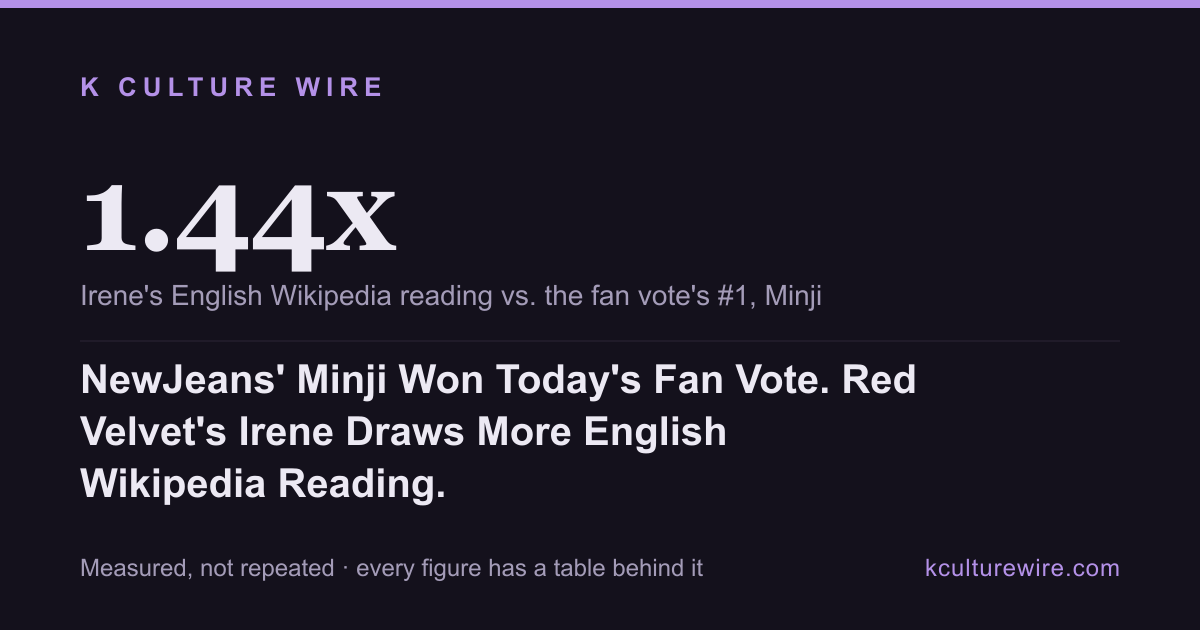
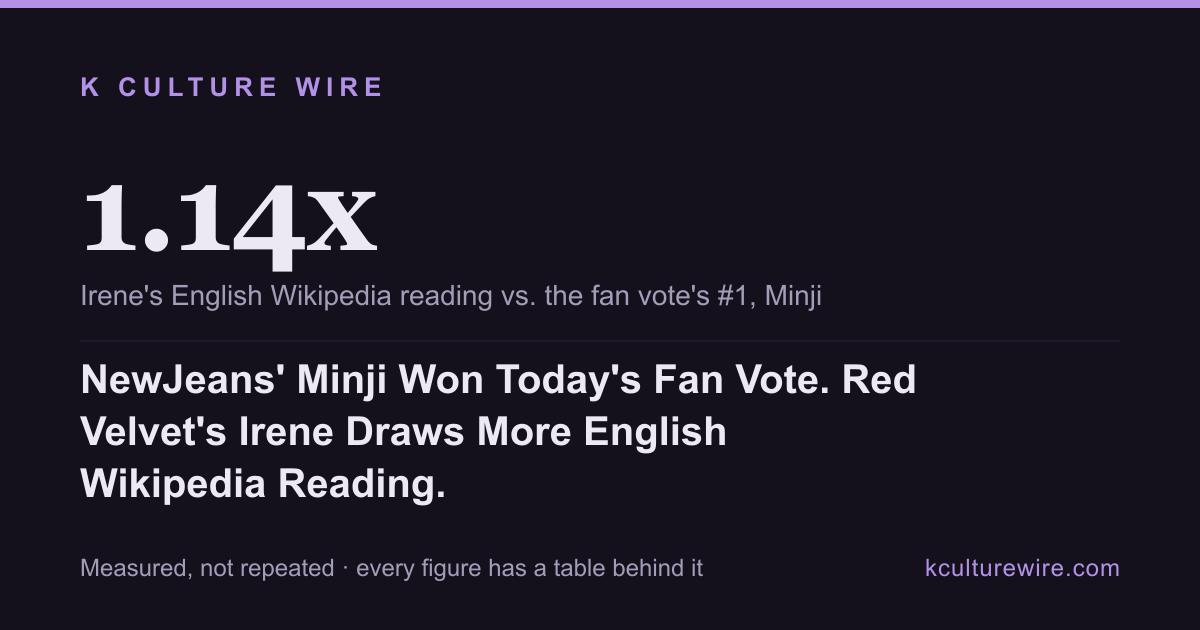
KCW: 스타폴 대조 기사 수치 정정 — 위키백과 패널을 투표 전날까지로 다시 받아 1.44x → 1.14x
첫 커밋에서 쓴 위키백과 30일 창(24 Jul-22 Aug)이 투표 스냅숏(9/16)보다 25일 낡았다.
같은 턴에 백그라운드로 돌리던 collect-kpop-pageviews.mjs 갱신(17 Aug-15 Sep, 투표
전날까지)이 끝나 다시 재보니 아이린/민지 배수가 1.44x가 아니라 1.14x였다. 남성
아이돌 부문 그룹 비교도 오류를 발견해 고쳤다 — 처음엔 "CORTIS 그룹이 BTS 포함
전부보다 높다"고 썼는데, 실제로는 BTS 개인(Jin)만 재고 BTS 그룹은 안 쟀다.
다시 재니 BTS 그룹(218,592)이 CORTIS 그룹(58,269)의 약 4배다 — 반대 방향이었다.
확인하고 단정한다는 원칙대로, 배포 전에 직접 재차 검증해 잡았다.

Claude-Session: https://claude.ai/code/session_01SJYYZLU311Tb3epw2BaWHY

Changed region(s): [[0.1233, 0.2714, 0.3392, 0.4524]]

diff --git a/content/kculturewire/newjeans-topped-the-fan-vote-red-velvets-irene-reads-more.md b/content/kculturewire/newjeans-topped-the-fan-vote-red-velvets-irene-reads-more.md
@@ -1,6 +1,6 @@
 ---
 title: "NewJeans' Minji Won Today's Fan Vote. Red Velvet's Irene Draws More English Wikipedia Reading."
-dek: "STARPOLL's 16 September vote put NewJeans' Minji first among female idols, Irene third. Irene's English Wikipedia reading ran 1.44x Minji's over our own 30-day window — the vote and the reading data don't agree on who's first."
+dek: "STARPOLL's 16 September vote put NewJeans' Minji first among female idols, Irene third. Irene's English Wikipedia reading ran 1.14x Minji's over the 30 days ending the day before the vote."
 category: stars
 pubDate: 2026-09-16
 dataAsOf: 2026-09-16T00:00:00+09:00
@@ -13,20 +13,20 @@ sources:
     api: "Star Ranking leaderboard (fan-vote app STARPOLL, official AAA 2026 popularity-vote partner), Female Idol and Male Idol categories, accessed 2026-09-16"
     url: "https://www.starnewskorea.com/star-ranking"
   - org: "Wikimedia Foundation — Pageviews API"
-    api: "Daily English Wikipedia pageviews, all-access, user agents only (bots excluded), for named idols and groups, 24 July-22 August 2026 (freshest complete 30-day window archived at the time of writing)"
+    api: "Daily English Wikipedia pageviews, all-access, user agents only (bots excluded), for named idols and groups, 17 August-15 September 2026 (freshest complete 30-day window archived at the time of writing, ending the day before the vote snapshot)"
     url: "https://wikimedia.org/api/rest_v1/"
 crossChecks:
   - "Female Idol vote, 16 September 2026: 1. Minji (NewJeans) 18,270 votes. 2. Haerin (NewJeans) 15,716. 3. Irene (Red Velvet) 14,811. 4. an unlisted NewJeans member we could not match to an individual English Wikipedia page (see excluded). 5. Hyein (NewJeans) 12,491."
-  - "Same four names against 30-day English Wikipedia totals (24 Jul-22 Aug 2026): Minji 12,075 (403/day). Haerin 9,313 (310/day). Irene 17,351 (578/day). Hyein 9,069 (302/day)."
-  - "Irene's reading total is 1.44x Minji's, even though Minji outvoted her by roughly 1.23x. The vote's #2, Haerin, has the lowest reading total of the three NewJeans members we could measure."
+  - "Same four names against 30-day English Wikipedia totals (17 Aug-15 Sep 2026): Minji 10,786 (360/day). Haerin 8,427 (281/day). Irene 12,257 (409/day). Hyein 8,241 (275/day)."
+  - "Irene's reading total is 1.14x Minji's, even though Minji outvoted her by roughly 1.23x. Haerin, the vote's runner-up, has the second-lowest reading total of the four."
   - "Male Idol vote, same day: 1. Sunghyun (CORTIS) 282,130. 2. Kunho (CORTIS) 228,120. 3. Junho (2PM) 15,240. 4. Juhoon (CORTIS) 7,363. 5. Jin (BTS) 4,574."
-  - "Only Jin has an individual English Wikipedia page in our panel: 64,831 views over the same 30 days (2,161/day) — higher than any of the three NewJeans members' totals above. The other four men's fan bases were large enough to place them 1st, 2nd, 3rd and 4th in the vote, but we have no individual reading figure for any of them to compare."
-  - "CORTIS as a group, not broken down by member, drew 74,689 views over the same window (2,490/day) — the highest total in this piece, including BTS's group-level reach. That number moves in the same direction as CORTIS's two members topping the men's vote; it just can't be split between Sunghyun and Kunho with the data we have."
+  - "Only Jin has an individual English Wikipedia page in our panel: 55,153 views over the same 30 days (1,838/day) — roughly 12 times his own vote count, and higher than any of the four NewJeans/Red Velvet totals above. We have no individual reading figure for Sunghyun, Kunho, Junho or Juhoon to set next to his."
+  - "At group level: BTS's page drew 218,592 views over the same window (7,286/day). CORTIS's page drew 58,269 (1,942/day) — about a quarter of BTS's. CORTIS's two members took the vote's top two spots by a wide margin; BTS's only vote-ranked member (Jin) placed fifth with a small fraction of their votes. The group-level reading gap runs the opposite direction from the vote gap."
 excluded:
   - "The Female Idol vote's 4th-place name. Our source page renders it inconsistently across categories and we could not confirm which individual English Wikipedia page it should resolve to. We are not guessing at a match."
   - "Any individual reading figure for Sunghyun, Kunho, Junho or Juhoon. None of the four has an individual English Wikipedia page in our panel yet — either the page doesn't exist, or it redirects to a group or disambiguation page we exclude on principle. We report the gap in coverage rather than substitute a group number for a person."
   - "Any claim that STARPOLL's vote is inflated, manipulated, or 'not real.' We don't have evidence either way. What we can say is that it measures something different from what we measure — votes cast by people motivated to vote, not people who happened to look a name up."
-  - "Any explanation for why Irene reads higher than the two women who outvoted her. It could be pre-existing name recognition, unrelated news, or something we have no source for."
+  - "Any explanation for why Irene reads higher than the two women who outvoted her, or why BTS's group page outreads CORTIS's by so much more than the vote gap between their members would suggest. It could be pre-existing name recognition, unrelated news, act age, or something we have no source for."
   - "Votes from 6th place down. STARPOLL's public leaderboard renders only the top five per category without a login; the rest sits behind an API path we don't call."
 ---
 
@@ -45,50 +45,48 @@ They don't.
 
 ## What we measured
 
-We pulled 30 days of daily English Wikipedia pageviews (24 July-22 August 2026, the freshest
-complete window we had archived at the time of writing) for every name in STARPOLL's top five
-we could match to an individual page.
+We pulled 30 days of daily English Wikipedia pageviews (17 August-15 September 2026, the day
+before the vote snapshot) for every name in STARPOLL's top five we could match to an individual
+page.
 
 | | STARPOLL vote (16 Sep) | Vote rank | 30-day Wikipedia total | 30-day rank |
 |---|---|---|---|---|
-| Minji | 18,270 | 1 | 12,075 | 3 |
-| Haerin | 15,716 | 2 | 9,313 | 4 |
-| Irene | 14,811 | 3 | **17,351** | **1** |
-| Hyein | 12,491 | 5 | 9,069 | 4 (tied) |
+| Minji | 18,270 | 1 | 10,786 | 2 |
+| Haerin | 15,716 | 2 | 8,427 | 3 |
+| Irene | 14,811 | 3 | **12,257** | **1** |
+| Hyein | 12,491 | 5 | 8,241 | 4 |
 
 Irene placed third in the vote, behind two NewJeans members. On our reading count, she leads all
-three by a clear margin — 1.44x Minji's total, the vote's actual first-place name. Haerin,
-the vote's runner-up, has the lowest reading total of the four names here.
+three — 1.14x Minji's total, the vote's actual first-place name. The gap is real but not large;
+we're not overstating it.
 
 We could not match STARPOLL's fourth-place name in this category to a specific English Wikipedia
 page with confidence, so we've left that row out rather than guess.
 
-## The men's category tells a different, messier story
+## The men's category — a wider gap, running the other way
 
 STARPOLL's Male Idol vote on the same day: Sunghyun and Kunho, both of CORTIS, took first and
 second by a wide margin (282,130 and 228,120 votes), ahead of 2PM's Junho, CORTIS's Juhoon, and —
 fifth — BTS's Jin, with 4,574 votes.
 
-Jin is the only one of the five with his own English Wikipedia page in our panel: 64,831 views
-over the same 30 days, or 2,161 a day. That's a higher individual total than any of the three
-NewJeans members above. But we have no individual figure for Sunghyun, Kunho, Junho or Juhoon to
-set next to it — none of the four has an individual page in our panel yet, most likely because
-CORTIS is a newer act and hasn't accumulated separate member pages the way longer-running groups
-have.
+Jin is the only one of the five with his own English Wikipedia page in our panel: 55,153 views
+over the same 30 days, or 1,838 a day — roughly 12 times his own vote count, and higher than any
+of the four women's totals above. We have no individual figure for Sunghyun, Kunho, Junho or
+Juhoon to set next to his; none of the four has an individual page in our panel yet.
 
-What we can measure at the group level cuts the other way from the women's category: CORTIS's
-group page drew 74,689 views over the same window — more than any other name or group in this
-piece, BTS included. That's directionally consistent with two CORTIS members topping the men's
-vote, even though we can't divide that number between Sunghyun and Kunho specifically.
+At the group level, the pattern reverses from the women's category. BTS's page drew 218,592 views
+over the same window — CORTIS's drew 58,269, about a quarter of that. CORTIS's two members took
+the vote's top two spots by a wide margin; BTS's only vote-ranked member placed fifth with a small
+fraction of their votes. The reading gap between the groups runs opposite to the vote gap between
+their members.
 
 ## What this does and doesn't tell us
 
 A fan vote and a pageview count measure different behaviors, and neither one is "the real"
-popularity. In the women's category, the vote and our reading count disagreed on who's first. In
-the men's category, the only comparison we could make individually (Jin) doesn't match his vote
-placement either — but the group-level number for the vote's top act (CORTIS) points the same
-direction the vote does. We're not resolving that into one ranking. We're reporting what each
-number actually counts, and where they land in the same place and where they don't.
+popularity. In the women's category, the gap between the two numbers was narrow. In the men's
+category it was wide, and pointed the other way at group level. We're not resolving either into
+one ranking. We're reporting what each number actually counts, and where they agree and where
+they don't.
 
 Our running method for checking what actually moves English Wikipedia reading is on
 [what-moves-english-reading](/what-moves-english-reading).
